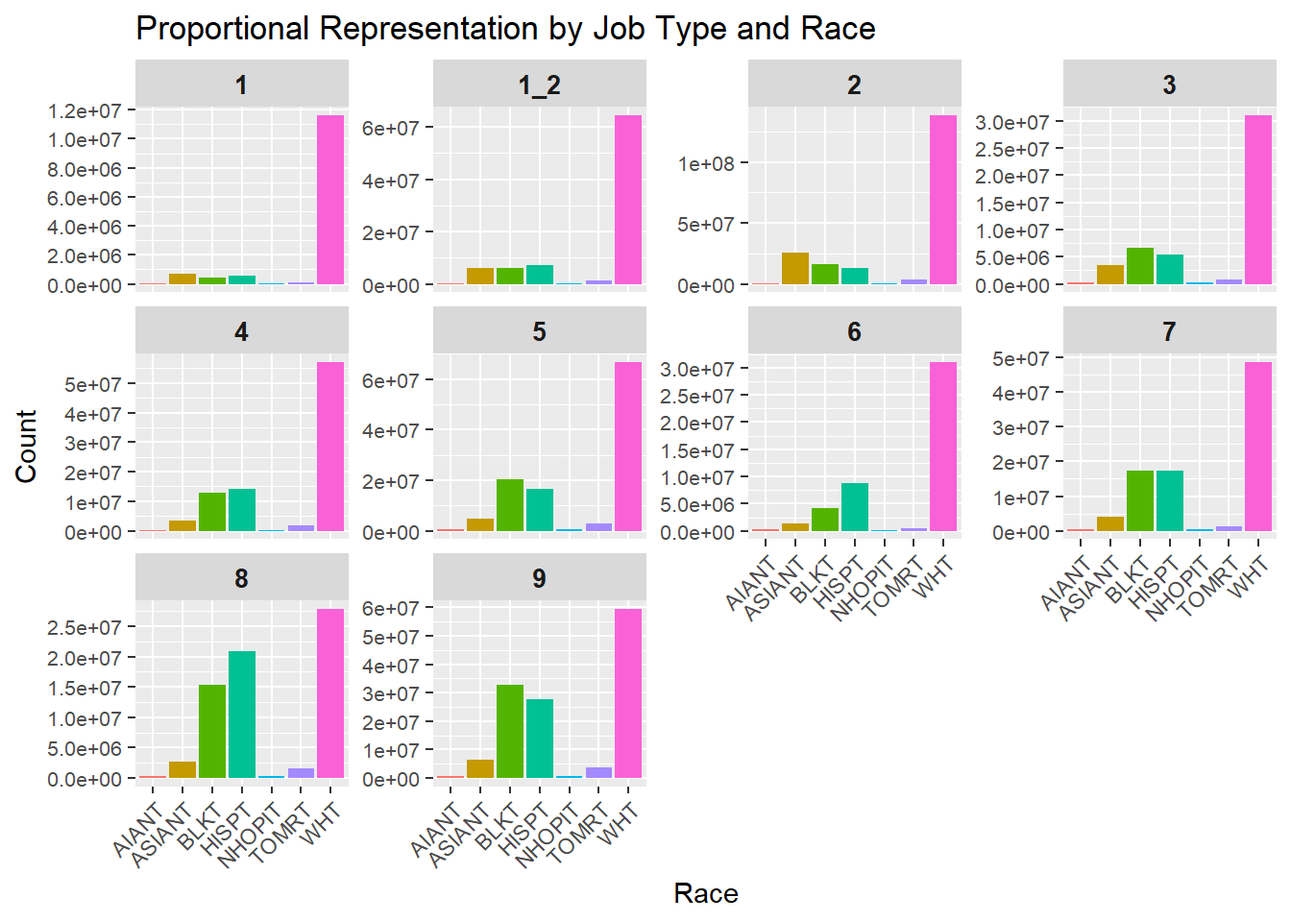
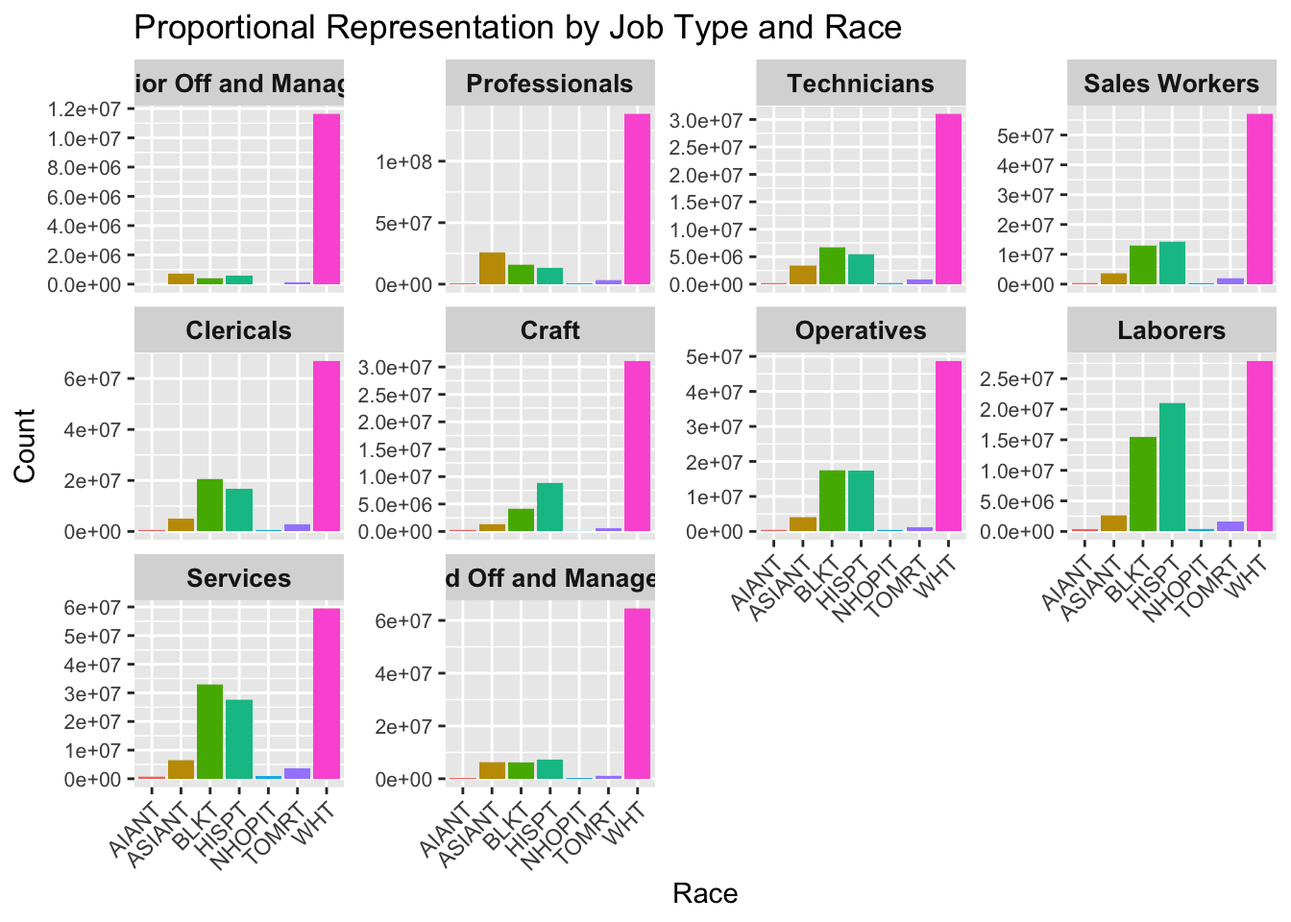
Built site for gh-pages

Changed region(s): [[0.0, 0.0, 1.0, 0.9375], [0.5312, 0.9375, 0.5625, 1.0], [0.4062, 0.3438, 0.4688, 0.375]]

diff --git a/posts/2024-11-08-blog-post-4/Blog_Post_4.html b/posts/2024-11-08-blog-post-4/Blog_Post_4.html
@@ -215,10 +215,10 @@ Attaching package: 'dplyr'</code></pre>
 <span id="cb5-2"><a href="#cb5-2" aria-hidden="true" tabindex="-1"></a><span class="fu">library</span>(tidyr)</span>
 <span id="cb5-3"><a href="#cb5-3" aria-hidden="true" tabindex="-1"></a></span>
 <span id="cb5-4"><a href="#cb5-4" aria-hidden="true" tabindex="-1"></a><span class="co"># Read data</span></span>
-<span id="cb5-5"><a href="#cb5-5" aria-hidden="true" tabindex="-1"></a>cleaned_data <span class="ot">&lt;-</span> <span class="fu">readRDS</span>(<span class="st">"../ma-4615-fa24-final-project-group-5/dataset/Cleaned_Employment2017.rds"</span>)</span>
+<span id="cb5-5"><a href="#cb5-5" aria-hidden="true" tabindex="-1"></a>cleaned_dataset <span class="ot">&lt;-</span> <span class="fu">readRDS</span>(<span class="st">"../ma-4615-fa24-final-project-group-5/dataset/Cleaned_Employment2017.rds"</span>)</span>
 <span id="cb5-6"><a href="#cb5-6" aria-hidden="true" tabindex="-1"></a></span>
 <span id="cb5-7"><a href="#cb5-7" aria-hidden="true" tabindex="-1"></a><span class="co"># Pivot to long format, excluding MT and FT</span></span>
-<span id="cb5-8"><a href="#cb5-8" aria-hidden="true" tabindex="-1"></a>long_data <span class="ot">&lt;-</span> cleaned_data <span class="sc">%&gt;%</span></span>
+<span id="cb5-8"><a href="#cb5-8" aria-hidden="true" tabindex="-1"></a>long_data <span class="ot">&lt;-</span> cleaned_dataset <span class="sc">%&gt;%</span></span>
 <span id="cb5-9"><a href="#cb5-9" aria-hidden="true" tabindex="-1"></a>  <span class="fu">pivot_longer</span>(</span>
 <span id="cb5-10"><a href="#cb5-10" aria-hidden="true" tabindex="-1"></a>    <span class="at">cols =</span> <span class="fu">matches</span>(<span class="st">"^(WHT|BLKT|HISPT|ASIANT|AIANT|NHOPIT|TOMRT)([1-9]|1_2)?$"</span>),</span>
 <span id="cb5-11"><a href="#cb5-11" aria-hidden="true" tabindex="-1"></a>    <span class="at">names_to =</span> <span class="fu">c</span>(<span class="st">"Race"</span>, <span class="st">"JobType"</span>),</span>
@@ -237,23 +237,45 @@ Attaching package: 'dplyr'</code></pre>
 <span id="cb5-24"><a href="#cb5-24" aria-hidden="true" tabindex="-1"></a>    <span class="at">Count =</span> <span class="fu">ifelse</span>(<span class="fu">is.na</span>(Count), <span class="dv">0</span>, Count) <span class="co"># Replace NA with 0</span></span>
 <span id="cb5-25"><a href="#cb5-25" aria-hidden="true" tabindex="-1"></a>  )</span>
 <span id="cb5-26"><a href="#cb5-26" aria-hidden="true" tabindex="-1"></a></span>
-<span id="cb5-27"><a href="#cb5-27" aria-hidden="true" tabindex="-1"></a><span class="co"># Plotting</span></span>
-<span id="cb5-28"><a href="#cb5-28" aria-hidden="true" tabindex="-1"></a><span class="fu">ggplot</span>(filtered_data, <span class="fu">aes</span>(<span class="at">x =</span> Race, <span class="at">y =</span> Count, <span class="at">fill =</span> Race)) <span class="sc">+</span></span>
-<span id="cb5-29"><a href="#cb5-29" aria-hidden="true" tabindex="-1"></a>  <span class="fu">geom_bar</span>(<span class="at">stat =</span> <span class="st">"identity"</span>) <span class="sc">+</span></span>
-<span id="cb5-30"><a href="#cb5-30" aria-hidden="true" tabindex="-1"></a>  <span class="fu">facet_wrap</span>(<span class="sc">~</span> JobType, <span class="at">scales =</span> <span class="st">"free_y"</span>) <span class="sc">+</span></span>
-<span id="cb5-31"><a href="#cb5-31" aria-hidden="true" tabindex="-1"></a>  <span class="fu">theme_gray</span>() <span class="sc">+</span></span>
-<span id="cb5-32"><a href="#cb5-32" aria-hidden="true" tabindex="-1"></a>  <span class="fu">labs</span>(</span>
-<span id="cb5-33"><a href="#cb5-33" aria-hidden="true" tabindex="-1"></a>    <span class="at">title =</span> <span class="st">"Proportional Representation by Job Type and Race"</span>,</span>
-<span id="cb5-34"><a href="#cb5-34" aria-hidden="true" tabindex="-1"></a>    <span class="at">x =</span> <span class="st">"Race"</span>,</span>
-<span id="cb5-35"><a href="#cb5-35" aria-hidden="true" tabindex="-1"></a>    <span class="at">y =</span> <span class="st">"Count"</span></span>
-<span id="cb5-36"><a href="#cb5-36" aria-hidden="true" tabindex="-1"></a>  ) <span class="sc">+</span></span>
-<span id="cb5-37"><a href="#cb5-37" aria-hidden="true" tabindex="-1"></a>  <span class="fu">scale_y_continuous</span>(<span class="at">breaks =</span> scales<span class="sc">::</span><span class="fu">pretty_breaks</span>(<span class="at">n =</span> <span class="dv">5</span>)) <span class="sc">+</span></span>
-<span id="cb5-38"><a href="#cb5-38" aria-hidden="true" tabindex="-1"></a>  <span class="fu">theme</span>(</span>
-<span id="cb5-39"><a href="#cb5-39" aria-hidden="true" tabindex="-1"></a>    <span class="at">legend.position =</span> <span class="st">"none"</span>,</span>
-<span id="cb5-40"><a href="#cb5-40" aria-hidden="true" tabindex="-1"></a>    <span class="at">strip.text =</span> <span class="fu">element_text</span>(<span class="at">size =</span> <span class="dv">10</span>, <span class="at">face =</span> <span class="st">"bold"</span>),</span>
-<span id="cb5-41"><a href="#cb5-41" aria-hidden="true" tabindex="-1"></a>    <span class="at">axis.text.x =</span> <span class="fu">element_text</span>(<span class="at">angle =</span> <span class="dv">45</span>, <span class="at">hjust =</span> <span class="dv">1</span>),</span>
-<span id="cb5-42"><a href="#cb5-42" aria-hidden="true" tabindex="-1"></a>    <span class="at">axis.text.y =</span> <span class="fu">element_text</span>(<span class="at">size =</span> <span class="dv">8</span>)</span>
-<span id="cb5-43"><a href="#cb5-43" aria-hidden="true" tabindex="-1"></a>  )</span></code><button title="Copy to Clipboard" class="code-copy-button"><i class="bi"></i></button></pre></div>
+<span id="cb5-27"><a href="#cb5-27" aria-hidden="true" tabindex="-1"></a><span class="co"># Add descriptive labels for Job Types and set factor order</span></span>
+<span id="cb5-28"><a href="#cb5-28" aria-hidden="true" tabindex="-1"></a>filtered_data <span class="ot">&lt;-</span> filtered_data <span class="sc">%&gt;%</span></span>
+<span id="cb5-29"><a href="#cb5-29" aria-hidden="true" tabindex="-1"></a>  <span class="fu">mutate</span>(</span>
+<span id="cb5-30"><a href="#cb5-30" aria-hidden="true" tabindex="-1"></a>    <span class="at">JobTypeLabel =</span> <span class="fu">recode</span>(JobType,</span>
+<span id="cb5-31"><a href="#cb5-31" aria-hidden="true" tabindex="-1"></a>      <span class="st">"1"</span> <span class="ot">=</span> <span class="st">"Senior Off and Managers"</span>,</span>
+<span id="cb5-32"><a href="#cb5-32" aria-hidden="true" tabindex="-1"></a>      <span class="st">"2"</span> <span class="ot">=</span> <span class="st">"Professionals"</span>,</span>
+<span id="cb5-33"><a href="#cb5-33" aria-hidden="true" tabindex="-1"></a>      <span class="st">"3"</span> <span class="ot">=</span> <span class="st">"Technicians"</span>,</span>
+<span id="cb5-34"><a href="#cb5-34" aria-hidden="true" tabindex="-1"></a>      <span class="st">"4"</span> <span class="ot">=</span> <span class="st">"Sales Workers"</span>,</span>
+<span id="cb5-35"><a href="#cb5-35" aria-hidden="true" tabindex="-1"></a>      <span class="st">"5"</span> <span class="ot">=</span> <span class="st">"Clericals"</span>,</span>
+<span id="cb5-36"><a href="#cb5-36" aria-hidden="true" tabindex="-1"></a>      <span class="st">"6"</span> <span class="ot">=</span> <span class="st">"Craft"</span>,</span>
+<span id="cb5-37"><a href="#cb5-37" aria-hidden="true" tabindex="-1"></a>      <span class="st">"7"</span> <span class="ot">=</span> <span class="st">"Operatives"</span>,</span>
+<span id="cb5-38"><a href="#cb5-38" aria-hidden="true" tabindex="-1"></a>      <span class="st">"8"</span> <span class="ot">=</span> <span class="st">"Laborers"</span>,</span>
+<span id="cb5-39"><a href="#cb5-39" aria-hidden="true" tabindex="-1"></a>      <span class="st">"9"</span> <span class="ot">=</span> <span class="st">"Services"</span>,</span>
+<span id="cb5-40"><a href="#cb5-40" aria-hidden="true" tabindex="-1"></a>      <span class="st">"1_2"</span> <span class="ot">=</span> <span class="st">"Mid Off and Managers"</span></span>
+<span id="cb5-41"><a href="#cb5-41" aria-hidden="true" tabindex="-1"></a>    ),</span>
+<span id="cb5-42"><a href="#cb5-42" aria-hidden="true" tabindex="-1"></a>    <span class="at">JobTypeLabel =</span> <span class="fu">factor</span>(JobTypeLabel, <span class="at">levels =</span> <span class="fu">c</span>(</span>
+<span id="cb5-43"><a href="#cb5-43" aria-hidden="true" tabindex="-1"></a>      <span class="st">"Senior Off and Managers"</span>, <span class="st">"Professionals"</span>, <span class="st">"Technicians"</span>,</span>
+<span id="cb5-44"><a href="#cb5-44" aria-hidden="true" tabindex="-1"></a>      <span class="st">"Sales Workers"</span>, <span class="st">"Clericals"</span>, <span class="st">"Craft"</span>, <span class="st">"Operatives"</span>, <span class="st">"Laborers"</span>, <span class="st">"Services"</span>, </span>
+<span id="cb5-45"><a href="#cb5-45" aria-hidden="true" tabindex="-1"></a>      <span class="st">"Mid Off and Managers"</span></span>
+<span id="cb5-46"><a href="#cb5-46" aria-hidden="true" tabindex="-1"></a>    ))</span>
+<span id="cb5-47"><a href="#cb5-47" aria-hidden="true" tabindex="-1"></a>  )</span>
+<span id="cb5-48"><a href="#cb5-48" aria-hidden="true" tabindex="-1"></a></span>
+<span id="cb5-49"><a href="#cb5-49" aria-hidden="true" tabindex="-1"></a><span class="co"># Plotting</span></span>
+<span id="cb5-50"><a href="#cb5-50" aria-hidden="true" tabindex="-1"></a><span class="fu">ggplot</span>(filtered_data, <span class="fu">aes</span>(<span class="at">x =</span> Race, <span class="at">y =</span> Count, <span class="at">fill =</span> Race)) <span class="sc">+</span></span>
+<span id="cb5-51"><a href="#cb5-51" aria-hidden="true" tabindex="-1"></a>  <span class="fu">geom_bar</span>(<span class="at">stat =</span> <span class="st">"identity"</span>) <span class="sc">+</span></span>
+<span id="cb5-52"><a href="#cb5-52" aria-hidden="true" tabindex="-1"></a>  <span class="fu">facet_wrap</span>(<span class="sc">~</span> JobTypeLabel, <span class="at">scales =</span> <span class="st">"free_y"</span>) <span class="sc">+</span></span>
+<span id="cb5-53"><a href="#cb5-53" aria-hidden="true" tabindex="-1"></a>  <span class="fu">theme_gray</span>() <span class="sc">+</span></span>
+<span id="cb5-54"><a href="#cb5-54" aria-hidden="true" tabindex="-1"></a>  <span class="fu">labs</span>(</span>
+<span id="cb5-55"><a href="#cb5-55" aria-hidden="true" tabindex="-1"></a>    <span class="at">title =</span> <span class="st">"Proportional Representation by Job Type and Race"</span>,</span>
+<span id="cb5-56"><a href="#cb5-56" aria-hidden="true" tabindex="-1"></a>    <span class="at">x =</span> <span class="st">"Race"</span>,</span>
+<span id="cb5-57"><a href="#cb5-57" aria-hidden="true" tabindex="-1"></a>    <span class="at">y =</span> <span class="st">"Count"</span></span>
+<span id="cb5-58"><a href="#cb5-58" aria-hidden="true" tabindex="-1"></a>  ) <span class="sc">+</span></span>
+<span id="cb5-59"><a href="#cb5-59" aria-hidden="true" tabindex="-1"></a>  <span class="fu">scale_y_continuous</span>(<span class="at">breaks =</span> scales<span class="sc">::</span><span class="fu">pretty_breaks</span>(<span class="at">n =</span> <span class="dv">5</span>)) <span class="sc">+</span></span>
+<span id="cb5-60"><a href="#cb5-60" aria-hidden="true" tabindex="-1"></a>  <span class="fu">theme</span>(</span>
+<span id="cb5-61"><a href="#cb5-61" aria-hidden="true" tabindex="-1"></a>    <span class="at">legend.position =</span> <span class="st">"none"</span>,</span>
+<span id="cb5-62"><a href="#cb5-62" aria-hidden="true" tabindex="-1"></a>    <span class="at">strip.text =</span> <span class="fu">element_text</span>(<span class="at">size =</span> <span class="dv">10</span>, <span class="at">face =</span> <span class="st">"bold"</span>),</span>
+<span id="cb5-63"><a href="#cb5-63" aria-hidden="true" tabindex="-1"></a>    <span class="at">axis.text.x =</span> <span class="fu">element_text</span>(<span class="at">angle =</span> <span class="dv">45</span>, <span class="at">hjust =</span> <span class="dv">1</span>),</span>
+<span id="cb5-64"><a href="#cb5-64" aria-hidden="true" tabindex="-1"></a>    <span class="at">axis.text.y =</span> <span class="fu">element_text</span>(<span class="at">size =</span> <span class="dv">8</span>)</span>
+<span id="cb5-65"><a href="#cb5-65" aria-hidden="true" tabindex="-1"></a>  )</span></code><button title="Copy to Clipboard" class="code-copy-button"><i class="bi"></i></button></pre></div>
 <div class="cell-output-display">
 <div>
 <figure class="figure">
@@ -291,11 +313,11 @@ Attaching package: 'dplyr'</code></pre>
 <span id="cb8-2"><a href="#cb8-2" aria-hidden="true" tabindex="-1"></a><span class="fu">library</span>(ggplot2)</span>
 <span id="cb8-3"><a href="#cb8-3" aria-hidden="true" tabindex="-1"></a></span>
 <span id="cb8-4"><a href="#cb8-4" aria-hidden="true" tabindex="-1"></a><span class="co"># Pivot to long format</span></span>
-<span id="cb8-5"><a href="#cb8-5" aria-hidden="true" tabindex="-1"></a>long_data <span class="ot">&lt;-</span> cleaned_data <span class="sc">%&gt;%</span></span>
+<span id="cb8-5"><a href="#cb8-5" aria-hidden="true" tabindex="-1"></a>long_data <span class="ot">&lt;-</span> cleaned_dataset <span class="sc">%&gt;%</span></span>
 <span id="cb8-6"><a href="#cb8-6" aria-hidden="true" tabindex="-1"></a>  <span class="fu">pivot_longer</span>(</span>
-<span id="cb8-7"><a href="#cb8-7" aria-hidden="true" tabindex="-1"></a>    <span class="at">cols =</span> <span class="fu">matches</span>(<span class="st">"^(Male|Female|MT|FT)[1-9](_2)?$"</span>),</span>
+<span id="cb8-7"><a href="#cb8-7" aria-hidden="true" tabindex="-1"></a>    <span class="at">cols =</span> <span class="fu">matches</span>(<span class="st">"^(MT|FT)[1-9](_2)?$"</span>),</span>
 <span id="cb8-8"><a href="#cb8-8" aria-hidden="true" tabindex="-1"></a>    <span class="at">names_to =</span> <span class="fu">c</span>(<span class="st">"Gender"</span>, <span class="st">"JobType"</span>),</span>
-<span id="cb8-9"><a href="#cb8-9" aria-hidden="true" tabindex="-1"></a>    <span class="at">names_pattern =</span> <span class="st">"^(Male|Female|MT|FT)([1-9]|1_2)?$"</span>,</span>
+<span id="cb8-9"><a href="#cb8-9" aria-hidden="true" tabindex="-1"></a>    <span class="at">names_pattern =</span> <span class="st">"^(MT|FT)([1-9]|1_2)?$"</span>,</span>
 <span id="cb8-10"><a href="#cb8-10" aria-hidden="true" tabindex="-1"></a>    <span class="at">values_to =</span> <span class="st">"Count"</span></span>
 <span id="cb8-11"><a href="#cb8-11" aria-hidden="true" tabindex="-1"></a>  ) <span class="sc">%&gt;%</span></span>
 <span id="cb8-12"><a href="#cb8-12" aria-hidden="true" tabindex="-1"></a>  <span class="fu">filter</span>(<span class="sc">!</span><span class="fu">is.na</span>(JobType) <span class="sc">&amp;</span> <span class="sc">!</span><span class="fu">is.na</span>(Gender))</span>
@@ -312,33 +334,54 @@ Attaching package: 'dplyr'</code></pre>
 Caused by warning:
 ! NAs introduced by coercion</code></pre>
 </div>
-<div class="sourceCode cell-code" id="cb10"><pre class="sourceCode r code-with-copy"><code class="sourceCode r"><span id="cb10-1"><a href="#cb10-1" aria-hidden="true" tabindex="-1"></a><span class="co"># Filter for valid job types</span></span>
-<span id="cb10-2"><a href="#cb10-2" aria-hidden="true" tabindex="-1"></a>valid_job_types <span class="ot">&lt;-</span> <span class="fu">c</span>(<span class="st">"1"</span>, <span class="st">"2"</span>, <span class="st">"3"</span>, <span class="st">"4"</span>, <span class="st">"5"</span>, <span class="st">"6"</span>, <span class="st">"7"</span>, <span class="st">"8"</span>, <span class="st">"9"</span>, <span class="st">"1_2"</span>)</span>
-<span id="cb10-3"><a href="#cb10-3" aria-hidden="true" tabindex="-1"></a>filtered_data <span class="ot">&lt;-</span> long_data <span class="sc">%&gt;%</span></span>
-<span id="cb10-4"><a href="#cb10-4" aria-hidden="true" tabindex="-1"></a>  <span class="fu">filter</span>(JobType <span class="sc">%in%</span> valid_job_types) <span class="sc">%&gt;%</span></span>
-<span id="cb10-5"><a href="#cb10-5" aria-hidden="true" tabindex="-1"></a>  <span class="fu">group_by</span>(JobType, Gender) <span class="sc">%&gt;%</span></span>
-<span id="cb10-6"><a href="#cb10-6" aria-hidden="true" tabindex="-1"></a>  <span class="fu">mutate</span>(</span>
-<span id="cb10-7"><a href="#cb10-7" aria-hidden="true" tabindex="-1"></a>    <span class="at">Total =</span> <span class="fu">sum</span>(Count, <span class="at">na.rm =</span> <span class="cn">TRUE</span>),  <span class="co"># Total count for each JobType</span></span>
-<span id="cb10-8"><a href="#cb10-8" aria-hidden="true" tabindex="-1"></a>    <span class="at">Percent =</span> Count <span class="sc">/</span> Total <span class="sc">*</span> <span class="dv">100</span>      <span class="co"># Calculate percentage</span></span>
-<span id="cb10-9"><a href="#cb10-9" aria-hidden="true" tabindex="-1"></a>  ) <span class="sc">%&gt;%</span></span>
-<span id="cb10-10"><a href="#cb10-10" aria-hidden="true" tabindex="-1"></a>  <span class="fu">ungroup</span>()</span>
-<span id="cb10-11"><a href="#cb10-11" aria-hidden="true" tabindex="-1"></a></span>
-<span id="cb10-12"><a href="#cb10-12" aria-hidden="true" tabindex="-1"></a><span class="co"># Plotting: Show percentages instead of counts</span></span>
-<span id="cb10-13"><a href="#cb10-13" aria-hidden="true" tabindex="-1"></a><span class="fu">ggplot</span>(filtered_data, <span class="fu">aes</span>(<span class="at">x =</span> Gender, <span class="at">y =</span> Percent, <span class="at">fill =</span> Gender)) <span class="sc">+</span></span>
-<span id="cb10-14"><a href="#cb10-14" aria-hidden="true" tabindex="-1"></a>  <span class="fu">geom_bar</span>(<span class="at">stat =</span> <span class="st">"identity"</span>) <span class="sc">+</span></span>
-<span id="cb10-15"><a href="#cb10-15" aria-hidden="true" tabindex="-1"></a>  <span class="fu">facet_wrap</span>(<span class="sc">~</span> JobType, <span class="at">scales =</span> <span class="st">"free_y"</span>) <span class="sc">+</span></span>
-<span id="cb10-16"><a href="#cb10-16" aria-hidden="true" tabindex="-1"></a>  <span class="fu">theme_gray</span>() <span class="sc">+</span></span>
-<span id="cb10-17"><a href="#cb10-17" aria-hidden="true" tabindex="-1"></a>  <span class="fu">labs</span>(</span>
-<span id="cb10-18"><a href="#cb10-18" aria-hidden="true" tabindex="-1"></a>    <span class="at">title =</span> <span class="st">"Proportional Representation by Job Type and Gender"</span>,</span>
-<span id="cb10-19"><a href="#cb10-19" aria-hidden="true" tabindex="-1"></a>    <span class="at">x =</span> <span class="st">"Gender"</span>,</span>
-<span id="cb10-20"><a href="#cb10-20" aria-hidden="true" tabindex="-1"></a>    <span class="at">y =</span> <span class="st">"Percentage"</span></span>
-<span id="cb10-21"><a href="#cb10-21" aria-hidden="true" tabindex="-1"></a>  ) <span class="sc">+</span></span>
-<span id="cb10-22"><a href="#cb10-22" aria-hidden="true" tabindex="-1"></a>  <span class="fu">theme</span>(</span>
-<span id="cb10-23"><a href="#cb10-23" aria-hidden="true" tabindex="-1"></a>    <span class="at">legend.position =</span> <span class="st">"none"</span>,              <span class="co"># Remove legend</span></span>
-<span id="cb10-24"><a href="#cb10-24" aria-hidden="true" tabindex="-1"></a>    <span class="at">strip.text =</span> <span class="fu">element_text</span>(<span class="at">size =</span> <span class="dv">10</span>, <span class="at">face =</span> <span class="st">"bold"</span>),</span>
-<span id="cb10-25"><a href="#cb10-25" aria-hidden="true" tabindex="-1"></a>    <span class="at">axis.text.x =</span> <span class="fu">element_text</span>(<span class="at">angle =</span> <span class="dv">45</span>, <span class="at">hjust =</span> <span class="dv">1</span>),</span>
-<span id="cb10-26"><a href="#cb10-26" aria-hidden="true" tabindex="-1"></a>    <span class="at">axis.text.y =</span> <span class="fu">element_text</span>(<span class="at">size =</span> <span class="dv">8</span>)</span>
-<span id="cb10-27"><a href="#cb10-27" aria-hidden="true" tabindex="-1"></a>  )</span></code><button title="Copy to Clipboard" class="code-copy-button"><i class="bi"></i></button></pre></div>
+<div class="sourceCode cell-code" id="cb10"><pre class="sourceCode r code-with-copy"><code class="sourceCode r"><span id="cb10-1"><a href="#cb10-1" aria-hidden="true" tabindex="-1"></a><span class="co"># Filter for valid job types and calculate percentages correctly for each gender</span></span>
+<span id="cb10-2"><a href="#cb10-2" aria-hidden="true" tabindex="-1"></a>filtered_data <span class="ot">&lt;-</span> long_data <span class="sc">%&gt;%</span></span>
+<span id="cb10-3"><a href="#cb10-3" aria-hidden="true" tabindex="-1"></a>  <span class="fu">filter</span>(JobType <span class="sc">%in%</span> valid_job_types) <span class="sc">%&gt;%</span></span>
+<span id="cb10-4"><a href="#cb10-4" aria-hidden="true" tabindex="-1"></a>  <span class="fu">group_by</span>(JobType) <span class="sc">%&gt;%</span></span>
+<span id="cb10-5"><a href="#cb10-5" aria-hidden="true" tabindex="-1"></a>  <span class="fu">mutate</span>(</span>
+<span id="cb10-6"><a href="#cb10-6" aria-hidden="true" tabindex="-1"></a>    <span class="at">Total =</span> <span class="fu">sum</span>(Count, <span class="at">na.rm =</span> <span class="cn">TRUE</span>),  <span class="co"># Total count for each JobType and Gender</span></span>
+<span id="cb10-7"><a href="#cb10-7" aria-hidden="true" tabindex="-1"></a>    <span class="at">Percent =</span> (Count <span class="sc">/</span> Total) <span class="sc">*</span> <span class="dv">100</span>      <span class="co"># Calculate percentage within each JobType and Gender</span></span>
+<span id="cb10-8"><a href="#cb10-8" aria-hidden="true" tabindex="-1"></a>  ) <span class="sc">%&gt;%</span></span>
+<span id="cb10-9"><a href="#cb10-9" aria-hidden="true" tabindex="-1"></a>  <span class="fu">ungroup</span>()</span>
+<span id="cb10-10"><a href="#cb10-10" aria-hidden="true" tabindex="-1"></a></span>
+<span id="cb10-11"><a href="#cb10-11" aria-hidden="true" tabindex="-1"></a><span class="co"># Add descriptive labels for Job Types and set factor order</span></span>
+<span id="cb10-12"><a href="#cb10-12" aria-hidden="true" tabindex="-1"></a>filtered_data <span class="ot">&lt;-</span> filtered_data <span class="sc">%&gt;%</span></span>
+<span id="cb10-13"><a href="#cb10-13" aria-hidden="true" tabindex="-1"></a>  <span class="fu">mutate</span>(</span>
+<span id="cb10-14"><a href="#cb10-14" aria-hidden="true" tabindex="-1"></a>    <span class="at">JobTypeLabel =</span> <span class="fu">recode</span>(JobType,</span>
+<span id="cb10-15"><a href="#cb10-15" aria-hidden="true" tabindex="-1"></a>      <span class="st">"1"</span> <span class="ot">=</span> <span class="st">"Senior Off and Managers"</span>,</span>
+<span id="cb10-16"><a href="#cb10-16" aria-hidden="true" tabindex="-1"></a>      <span class="st">"2"</span> <span class="ot">=</span> <span class="st">"Professionals"</span>,</span>
+<span id="cb10-17"><a href="#cb10-17" aria-hidden="true" tabindex="-1"></a>      <span class="st">"3"</span> <span class="ot">=</span> <span class="st">"Technicians"</span>,</span>
+<span id="cb10-18"><a href="#cb10-18" aria-hidden="true" tabindex="-1"></a>      <span class="st">"4"</span> <span class="ot">=</span> <span class="st">"Sales Workers"</span>,</span>
+<span id="cb10-19"><a href="#cb10-19" aria-hidden="true" tabindex="-1"></a>      <span class="st">"5"</span> <span class="ot">=</span> <span class="st">"Clericals"</span>,</span>
+<span id="cb10-20"><a href="#cb10-20" aria-hidden="true" tabindex="-1"></a>      <span class="st">"6"</span> <span class="ot">=</span> <span class="st">"Craft"</span>,</span>
+<span id="cb10-21"><a href="#cb10-21" aria-hidden="true" tabindex="-1"></a>      <span class="st">"7"</span> <span class="ot">=</span> <span class="st">"Operatives"</span>,</span>
+<span id="cb10-22"><a href="#cb10-22" aria-hidden="true" tabindex="-1"></a>      <span class="st">"8"</span> <span class="ot">=</span> <span class="st">"Laborers"</span>,</span>
+<span id="cb10-23"><a href="#cb10-23" aria-hidden="true" tabindex="-1"></a>      <span class="st">"9"</span> <span class="ot">=</span> <span class="st">"Services"</span>,</span>
+<span id="cb10-24"><a href="#cb10-24" aria-hidden="true" tabindex="-1"></a>      <span class="st">"1_2"</span> <span class="ot">=</span> <span class="st">"Mid Off and Managers"</span></span>
+<span id="cb10-25"><a href="#cb10-25" aria-hidden="true" tabindex="-1"></a>    ),</span>
+<span id="cb10-26"><a href="#cb10-26" aria-hidden="true" tabindex="-1"></a>    <span class="at">JobTypeLabel =</span> <span class="fu">factor</span>(JobTypeLabel, <span class="at">levels =</span> <span class="fu">c</span>(</span>
+<span id="cb10-27"><a href="#cb10-27" aria-hidden="true" tabindex="-1"></a>      <span class="st">"Senior Off and Managers"</span>, <span class="st">"Professionals"</span>, <span class="st">"Technicians"</span>,</span>
+<span id="cb10-28"><a href="#cb10-28" aria-hidden="true" tabindex="-1"></a>      <span class="st">"Sales Workers"</span>, <span class="st">"Clericals"</span>, <span class="st">"Craft"</span>, <span class="st">"Operatives"</span>, <span class="st">"Laborers"</span>, <span class="st">"Services"</span>, </span>
+<span id="cb10-29"><a href="#cb10-29" aria-hidden="true" tabindex="-1"></a>      <span class="st">"Mid Off and Managers"</span></span>
+<span id="cb10-30"><a href="#cb10-30" aria-hidden="true" tabindex="-1"></a>    ))</span>
+<span id="cb10-31"><a href="#cb10-31" aria-hidden="true" tabindex="-1"></a>  )</span>
+<span id="cb10-32"><a href="#cb10-32" aria-hidden="true" tabindex="-1"></a></span>
+<span id="cb10-33"><a href="#cb10-33" aria-hidden="true" tabindex="-1"></a><span class="co"># Plotting: Show percentages instead of counts</span></span>
+<span id="cb10-34"><a href="#cb10-34" aria-hidden="true" tabindex="-1"></a><span class="fu">ggplot</span>(filtered_data, <span class="fu">aes</span>(<span class="at">x =</span> Gender, <span class="at">y =</span> Percent, <span class="at">fill =</span> Gender)) <span class="sc">+</span></span>
+<span id="cb10-35"><a href="#cb10-35" aria-hidden="true" tabindex="-1"></a>  <span class="fu">geom_bar</span>(<span class="at">stat =</span> <span class="st">"identity"</span>) <span class="sc">+</span></span>
+<span id="cb10-36"><a href="#cb10-36" aria-hidden="true" tabindex="-1"></a>  <span class="fu">facet_wrap</span>(<span class="sc">~</span> JobTypeLabel, <span class="at">scales =</span> <span class="st">"free_y"</span>) <span class="sc">+</span></span>
+<span id="cb10-37"><a href="#cb10-37" aria-hidden="true" tabindex="-1"></a>  <span class="fu">theme_gray</span>() <span class="sc">+</span></span>
+<span id="cb10-38"><a href="#cb10-38" aria-hidden="true" tabindex="-1"></a>  <span class="fu">labs</span>(</span>
+<span id="cb10-39"><a href="#cb10-39" aria-hidden="true" tabindex="-1"></a>    <span class="at">title =</span> <span class="st">"Proportional Representation by Job Type and Gender"</span>,</span>
+<span id="cb10-40"><a href="#cb10-40" aria-hidden="true" tabindex="-1"></a>    <span class="at">x =</span> <span class="st">"Gender"</span>,</span>
+<span id="cb10-41"><a href="#cb10-41" aria-hidden="true" tabindex="-1"></a>    <span class="at">y =</span> <span class="st">"Percentage"</span></span>
+<span id="cb10-42"><a href="#cb10-42" aria-hidden="true" tabindex="-1"></a>  ) <span class="sc">+</span></span>
+<span id="cb10-43"><a href="#cb10-43" aria-hidden="true" tabindex="-1"></a>  <span class="fu">theme</span>(</span>
+<span id="cb10-44"><a href="#cb10-44" aria-hidden="true" tabindex="-1"></a>    <span class="at">legend.position =</span> <span class="st">"none"</span>,              <span class="co"># Remove legend</span></span>
+<span id="cb10-45"><a href="#cb10-45" aria-hidden="true" tabindex="-1"></a>    <span class="at">strip.text =</span> <span class="fu">element_text</span>(<span class="at">size =</span> <span class="dv">10</span>, <span class="at">face =</span> <span class="st">"bold"</span>),</span>
+<span id="cb10-46"><a href="#cb10-46" aria-hidden="true" tabindex="-1"></a>    <span class="at">axis.text.x =</span> <span class="fu">element_text</span>(<span class="at">angle =</span> <span class="dv">45</span>, <span class="at">hjust =</span> <span class="dv">1</span>),</span>
+<span id="cb10-47"><a href="#cb10-47" aria-hidden="true" tabindex="-1"></a>    <span class="at">axis.text.y =</span> <span class="fu">element_text</span>(<span class="at">size =</span> <span class="dv">8</span>)</span>
+<span id="cb10-48"><a href="#cb10-48" aria-hidden="true" tabindex="-1"></a>  )</span></code><button title="Copy to Clipboard" class="code-copy-button"><i class="bi"></i></button></pre></div>
 <div class="cell-output-display">
 <div>
 <figure class="figure">

diff --git a/index.html b/index.html
@@ -239,7 +239,7 @@ Group 5
 </a>
 </div>
 </div>
-<div class="quarto-post image-right" data-index="1" data-listing-date-sort="1730260800000" data-listing-file-modified-sort="1731383452740" data-listing-date-modified-sort="1731042000000" data-listing-reading-time-sort="4" data-listing-word-count-sort="790">
+<div class="quarto-post image-right" data-index="1" data-listing-date-sort="1730260800000" data-listing-file-modified-sort="1731508860366" data-listing-date-modified-sort="1731042000000" data-listing-reading-time-sort="6" data-listing-word-count-sort="1113">
 <div class="thumbnail">
 <p><a href="./posts/2024-11-08-blog-post-4/Blog_Post_4.html" class="no-external"></a></p><a href="./posts/2024-11-08-blog-post-4/Blog_Post_4.html" class="no-external">
 <p class="card-img-top"><img src="posts/2024-11-08-blog-post-4/Blog_Post_4_files/figure-html/p1-1.png"  class="thumbnail-image card-img"/></p>
